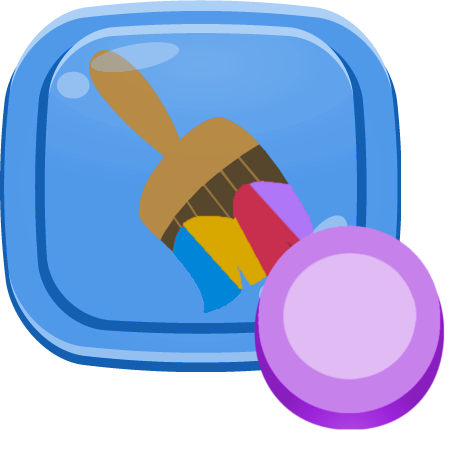
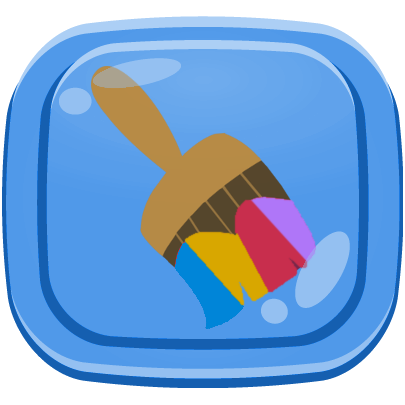
brush logic update

diff --git a/src/Game/js/ui/BrushButton/BrushButton.js b/src/Game/js/ui/BrushButton/BrushButton.js
@@ -1,31 +1,59 @@
 import { GameObject } from "../../../../Engine/GameObject/GameObject";
 import { Sprite } from "../../../../Engine/Sprite/Sprite";
-import {ARIAL_FONT, CENTER, Text} from "../../../../Engine/Text/Text";
-import {gc} from "../../game_config";
+import { ARIAL_FONT, CENTER, Text } from "../../../../Engine/Text/Text";
+import { gc } from "../../game_config";
+import { Collider } from "../../../../Engine/Collider/Collider";
+import {
+  GameStates,
+  MainCursor,
+  ScratchCatObj,
+  YarnGrid
+} from "../../scenes/CoreScene";
 
 const Z_INDEX = 80;
 
 export class BrushButton extends GameObject {
   constructor(coords, size) {
     super();
-    this.sprite = new Sprite(
-      "img/brush_button/brush_button.png",
+    this.sprite = [
+      new Sprite(
+        "img/brush_button/brush_button.png",
+        { x: 0, y: 0 },
+        { w: 405, h: 405 },
+        size
+      ),
+      new Sprite(
+        "img/brush_button/button_counter.png",
+        { x: 0, y: 0 },
+        { w: 205, h: 205 },
+        { w: size.w / 2, h: size.h / 2 },
+        { x: size.w - size.w * 0.4, y: size.h - size.h * 0.4 }
+      )
+    ];
+
+    this.collider = new Collider(
       { x: 0, y: 0 },
-      { w: 450, h: 450 },
-      size
+      { w: size.w - 10 * gc.modifer, h: size.h - 20 * gc.modifer },
+      { x: 5 * gc.modifer, y: 10 * gc.modifer }
     );
 
-    this.text = new Text
-    (
-      `3`,
+    this.collider.addInteractionObject(MainCursor);
+
+    this.text = new Text(
+      `9`,
       ARIAL_FONT,
       20 * gc.modifer,
-      '#9123cd',
-      'bold',
-      {x: this.getCoords().x, y: this.getCoords().y},
-      { x: 20 * gc.modifer, y: 56 * gc.modifer },
-      {w: size.w, h: 28 * gc.modifer}
+      "#9123cd",
+      "bold",
+      { x: this.getCoords().x, y: this.getCoords().y },
+      { x: 23 * gc.modifer, y: 60 * gc.modifer },
+      { w: size.w, h: 28 * gc.modifer }
     );
+
+    this.disabled = false;
+
+    this._pushed = false;
+    this._isAnimated = false;
 
     this.text.textAllign(CENTER);
 
@@ -39,7 +67,57 @@ export class BrushButton extends GameObject {
     });
   }
 
+  push() {
+    if (!this._isAnimated && !this.disabled) {
+      this._pushed = true;
+      this.sprite[0].resize(0.95, 100);
+      this._isAnimated = true;
+      setTimeout(() => (this._isAnimated = false), 100);
+    }
+  }
+
+  unpush(paint = false) {
+    if (!this._isAnimated) {
+      this._isAnimated = true;
+
+      this.sprite[0].resize(1, 100);
+
+      if (paint) {
+        YarnGrid.balls[1].obj.sprite[1].resize(0, 200);
+        setTimeout(() => {
+          YarnGrid.balls[1].obj.sprite[1].setImageSrc(
+            "img/YarnBalls/png/yarn_all.png"
+          );
+          YarnGrid.balls[1].obj.sprite[1].resize(1, 200);
+        }, 200);
+      }
+
+      setTimeout(() => {
+        this._pushed = false;
+        this._isAnimated = false;
+      }, 100);
+    }
+  }
+
   tick() {
     super.tick();
+    if (
+      !GameStates.gameOver &&
+      this.collider.getInteractions().has(MainCursor.collider) &&
+      !this.disabled &&
+      !MainCursor.hasMoved
+    ) {
+      if (!this._pushed) {
+        this.push();
+      }
+    } else {
+      if (this._pushed) {
+        if (MainCursor.hold) {
+          this.unpush(false);
+        } else {
+          this.unpush(true);
+        }
+      }
+    }
   }
 }

diff --git a/src/Game/js/scenes/CoreScene.js b/src/Game/js/scenes/CoreScene.js
@@ -102,22 +102,22 @@ ScoreBar.setMaxScore(200);
 export const BrushButtonObj = new BrushButton(
   {
     x: ScratchCatButtonObj.getCoords().x + ScratchCatButtonObj.sprite[0].getSize().w + 15 * gc.modifer,
-    y: ScratchCatButtonObj.getCoords().y + (ScratchCatButtonObj.sprite[0].getSize().h - 57 * gc.modifer) / 2
+    y: ScratchCatButtonObj.getCoords().y + (ScratchCatButtonObj.sprite[0].getSize().h - 65 * gc.modifer) / 2
   },
   {
-    w: 70 * gc.modifer,
-    h: 70 * gc.modifer
+    w: 65 * gc.modifer,
+    h: 65 * gc.modifer
   }
 );
 
 export const BrushButtonObj2 = new BrushButton(
   {
-    x: ScratchCatButtonObj.getCoords().x - 77 * gc.modifer,
-    y: ScratchCatButtonObj.getCoords().y + (ScratchCatButtonObj.sprite[0].getSize().h - 57 * gc.modifer) / 2
+    x: ScratchCatButtonObj.getCoords().x - 80 * gc.modifer,
+    y: ScratchCatButtonObj.getCoords().y + (ScratchCatButtonObj.sprite[0].getSize().h - 65 * gc.modifer) / 2
   },
   {
-    w: 70 * gc.modifer,
-    h: 70 * gc.modifer
+    w: 65 * gc.modifer,
+    h: 65 * gc.modifer
   }
 );
 

diff --git a/src/Game/js/ui/ScratchCatButton/ScratchCatButton.js b/src/Game/js/ui/ScratchCatButton/ScratchCatButton.js
@@ -1,7 +1,7 @@
 import { GameObject } from "../../../../Engine/GameObject/GameObject";
 import { Sprite } from "../../../../Engine/Sprite/Sprite";
 import { Collider } from "../../../../Engine/Collider/Collider";
-import { MainCursor, ScoreBar, ScratchCatObj } from "../../scenes/CoreScene";
+import {GameStates, MainCursor, ScoreBar, ScratchCatObj} from "../../scenes/CoreScene";
 import { getRandom } from "../../utilities/random";
 import { gc } from "../../game_config";
 import { BLUE, GREEN, PINK, PURPLE, YELLOW } from "../../objects/YarnBall/YarnBall";
@@ -199,7 +199,7 @@ export class ScratchCatButton extends GameObject {
 
   tick() {
     super.tick();
-    if (this.collider.getInteractions().has(MainCursor.collider) && !this.disabled && !MainCursor.hasMoved) {
+    if (!GameStates.gameOver && this.collider.getInteractions().has(MainCursor.collider) && !this.disabled && !MainCursor.hasMoved) {
       if (!this._pushed) {
         this.push();
       }
